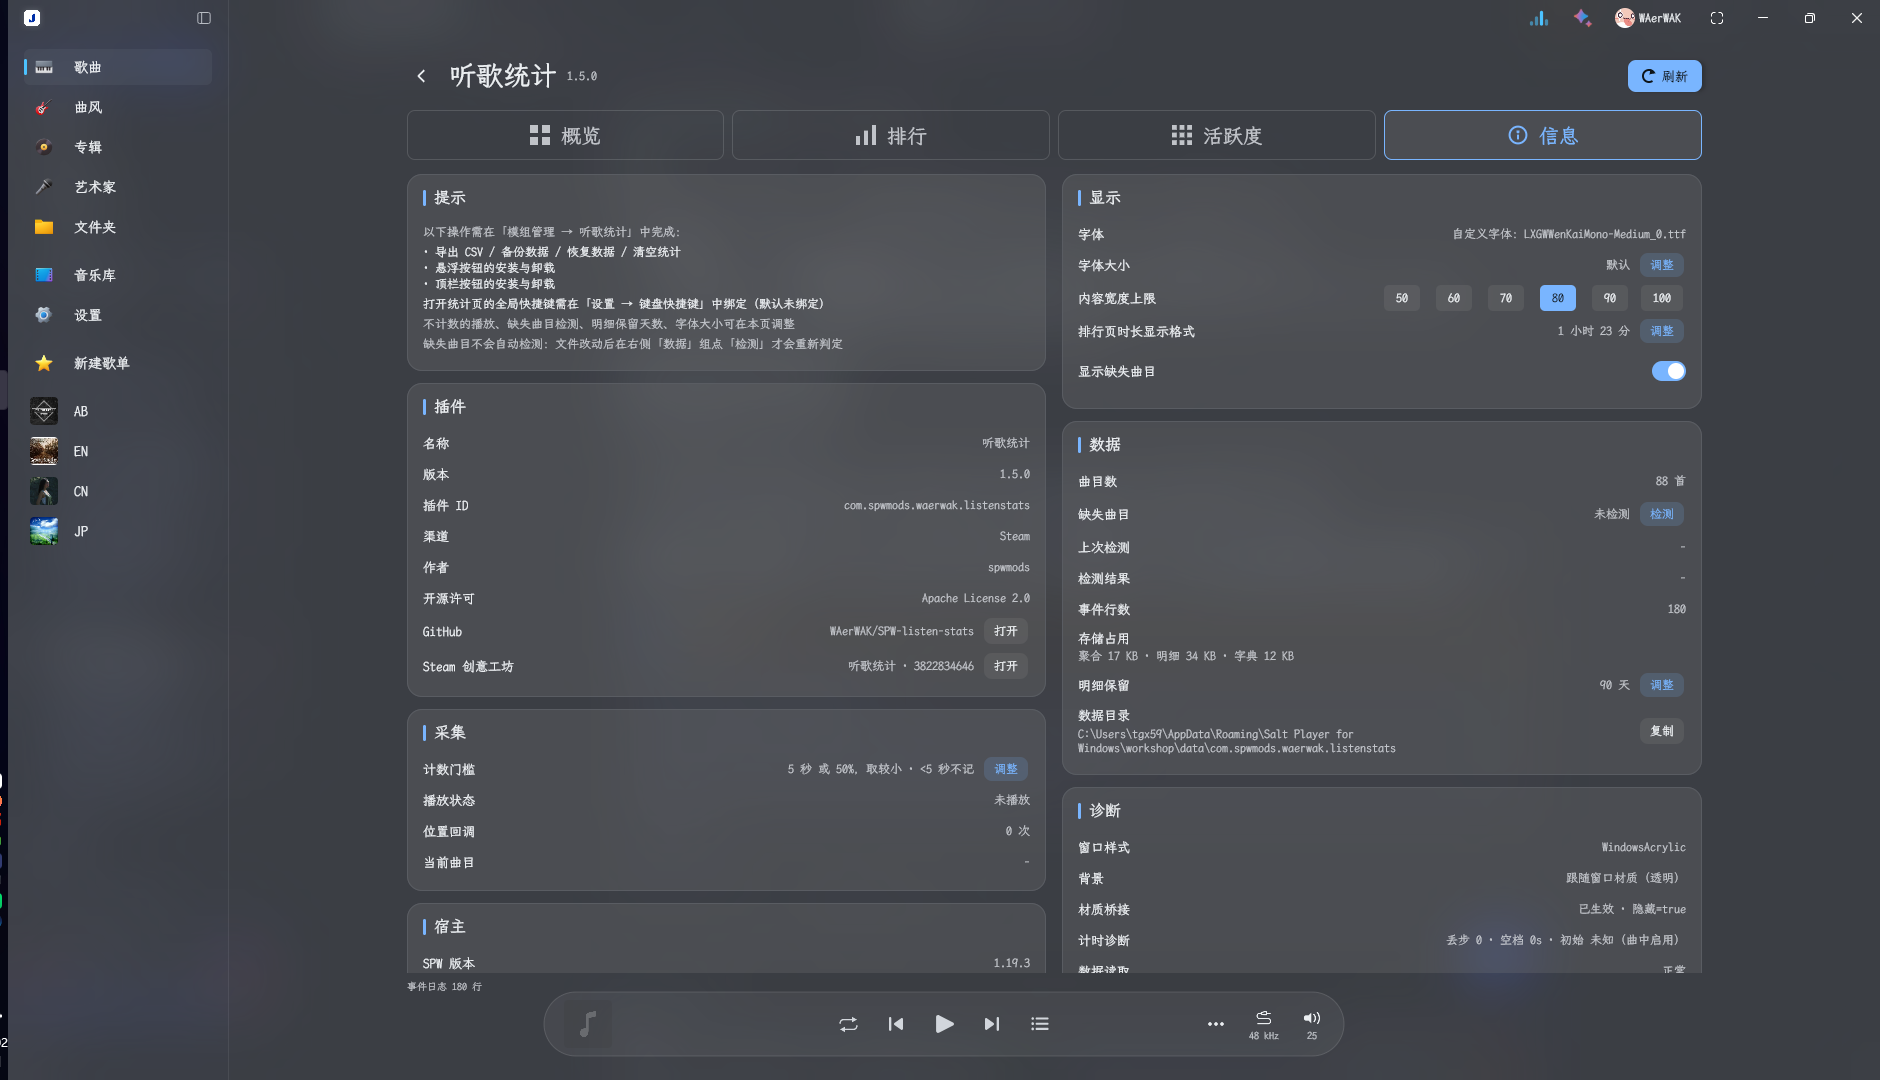
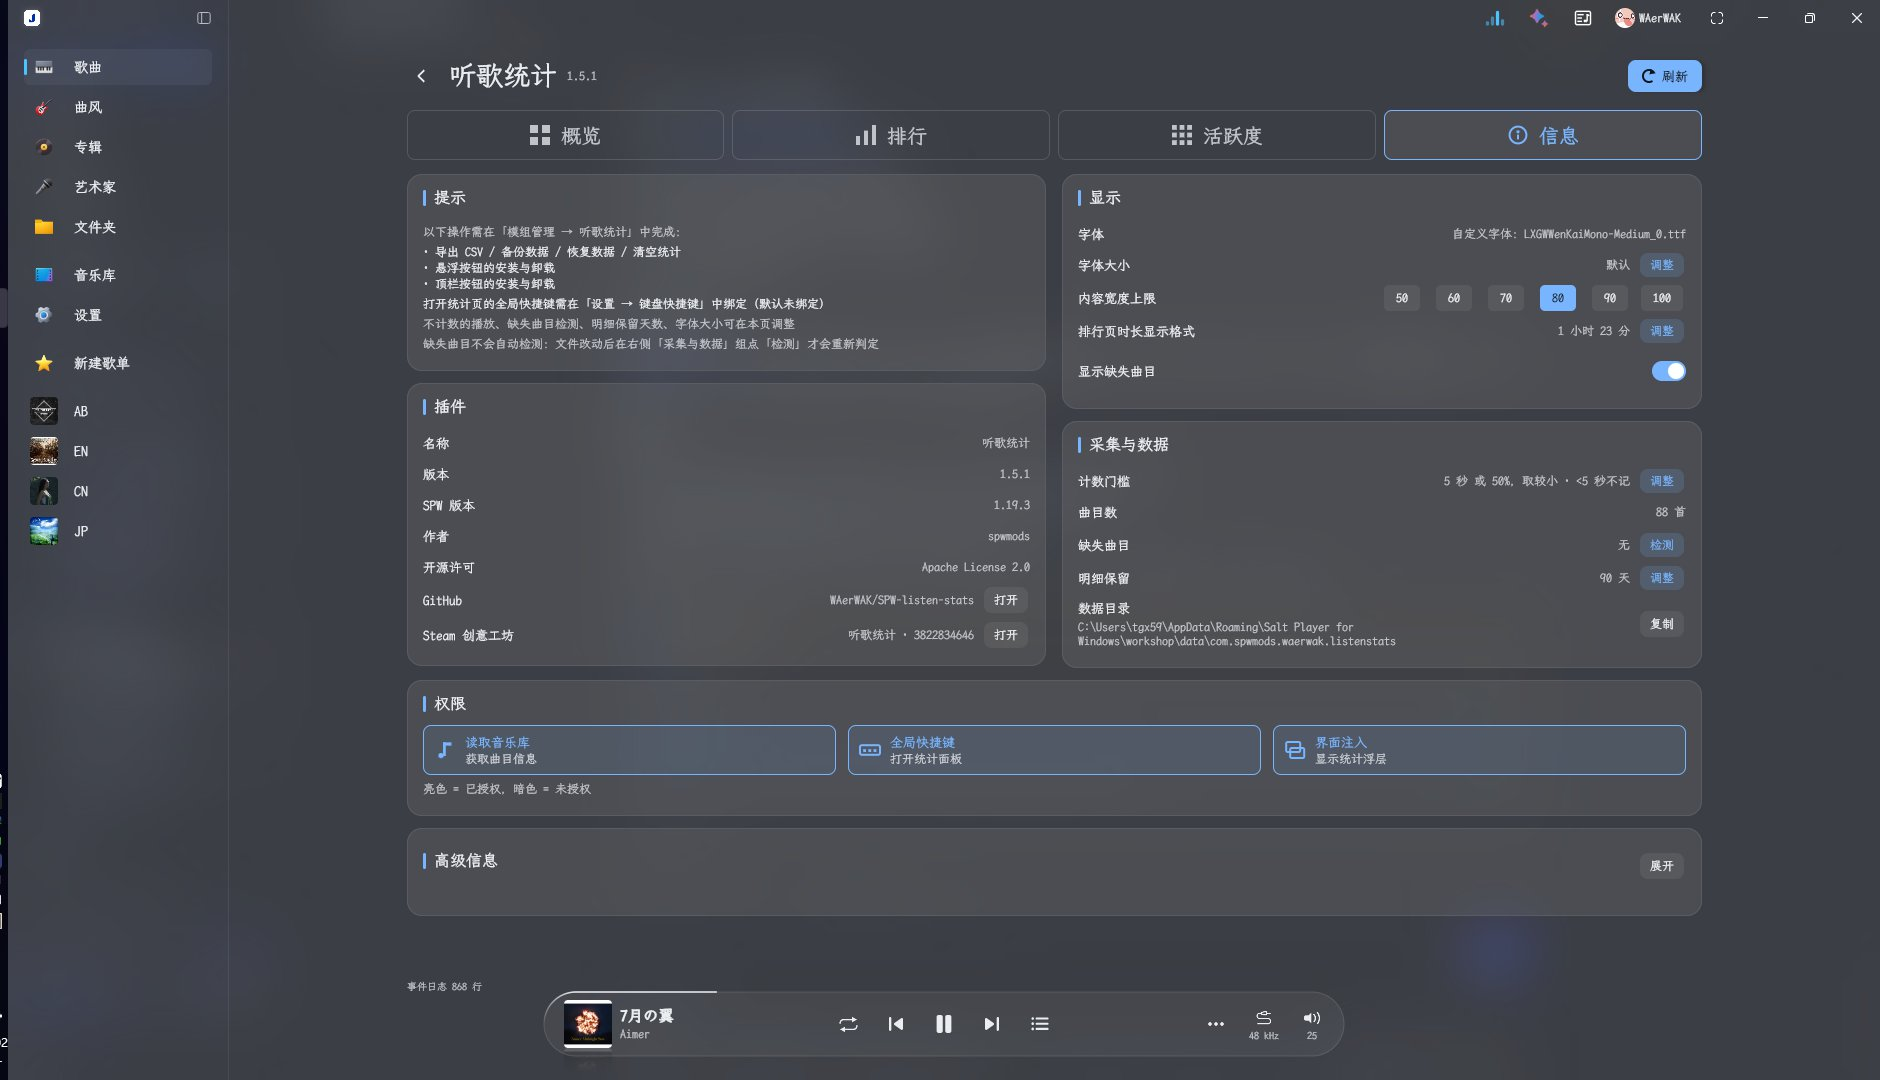
docs: 1.5.1 发布准备（CHANGELOG / README / 文档 / 信息页截图）
- CHANGELOG 新增 1.5.1 完整条目
- README：版本徽章 1.5.1；排行补充双击播放；信息页描述改为新布局
- docs/host-api-availability：修正"歌词可预取"旧结论（实为多插件短路），新增 §7 内部能力（真实倍速、单曲播放链路及结构校验）
- docs/screenshots/info.png 替换为 1.5.1 新信息页
- 构建 / runDataTests 49/49 / verifyHostApi 全部通过；1.5.1 已重新部署

diff --git a/CHANGELOG.md b/CHANGELOG.md
@@ -2,6 +2,39 @@
 
 本项目遵循 [语义化版本](https://semver.org/lang/zh-CN/)。
 
+## [1.5.1] - 2026-11-09
+
+### 新增
+
+- **双击播放**：排行「歌曲」列表里双击一首歌直接播放（单击仍是打开详情）；歌曲文件缺失、无权限或播放接口不兼容时会明确提示，不会静默失败
+- **鼠标侧键**：面板打开时按鼠标「返回」侧键收起面板，「前进」侧键把面板恢复回来，并回到上次停留的页面
+- **信息页整理**：只看得到普通用户需要的内容（提示 / 插件 / 显示 / 采集与数据 / 权限）；插件 ID、运行状态、注入状态、诊断开关等收进「高级信息」，默认折叠、按环境 / 运行状态 / 缺失检测 / 界面与注入 / 计时与诊断分区
+- **逐帧计时诊断**：高级信息里可开启（默认关），记录每一帧位置/间隔/播放态与判定原因，可一键导出 `timing-diag.txt`
+
+### 修复
+
+- **播放时长更准**
+  - 后台、最小化、主线程卡顿导致位置回调间隔很长时，不再整段丢弃时长
+  - 缓冲/解码停摆、开头加载等待不再被算成收听（之前每首开头可能多记 3–4 秒）
+  - 暂停、拖动进度条切换前后补记最后不到 1.5 秒，减少每次暂停的小额少记
+  - 播放中重载插件不再把同一首识别成两次：停用时会保存「待继续」快照，重新启用且仍是同一首就接着记
+  - 按真实倍速换算容差，4 倍以上倍速（系统媒体控制可超过 UI 上限）也能正常计入
+- **多插件同开**：装歌词插件（如 SPW-Lyrics）或多个插件时，统计不再依赖歌词回调（之前可能整首不记或记到上一首）；面板背景在 SPW-Lyrics 同时开启时仍保持窗口材质透明
+- **图表/曲目详情没有当天记录**：事件里超长的听音区间串会让旧解析器栈溢出，导致当天明细被静默跳过；已改为手写扫描解析。**已写入的历史数据不需要重播，重新打开即可显示**
+- **时钟被调整**时，事件区间与总时长保持一致，重启后统计不再变少
+
+### 改进
+
+- 计时异常（钳制/丢步/超长空档）会往 `listen-stats.log` 写一行摘要，方便反馈问题时直接定位
+- 信息页「计时诊断」显示停摆钳制次数与当前倍速
+- 更新宿主注入点失败时的诊断信息，便于宿主升级后快速排查
+
+### 兼容性
+
+- 数据格式与备份格式不变，旧数据、旧备份仍可直接使用
+- 需要 Salt Player for Windows 1.19.3；1.19.0 / 1.19.1 仍可用
+- 双击播放依赖宿主内部播放链路，已做结构校验；宿主接口变化时只会提示"不支持"，不会影响统计
+
 ## [1.5.0] - 2026-11-08
 
 ### 新增

diff --git a/docs/host-api-availability.md b/docs/host-api-availability.md
@@ -237,5 +237,19 @@ Kotlin 2.4.21 + Compose 插件 in-process 编译时，`firstOrNull { }` / `map {
 | 位置是毫秒 long | BASS 字节位置换算，无整秒取整 | 可以按"经过的时间"计时，位置只作推进证据 |
 | 暂停期间不再推送位置 | 暂停时定时任务被取消 | 暂停时长天然不会计入 |
 | 宿主官方听歌口径 = 墙钟 | `ListenSession` 用 `nanoTime` 累计 | 用户拿宿主统计对照时，倍速/暂停两侧口径一致；不一致才是我们的 bug |
-| 事件可预取歌词 | 歌词加载回调不保证只对"当前曲目"触发 | 不能用歌词回调当切歌信号，应以 `getCurrentMediaItem().id` 为权威 |
+| 歌词回调可被其它插件短路 | 宿主 `loadLyrics` 遍历扩展时，任一插件 `updateLyrics`/`onBeforeLoadLyrics` 返回非 null 就跳出循环；排后面的扩展收不到回调（1.19.3 无"预取下一首"路径） | **不能用歌词回调当切歌/会话信号**，一律以 `getCurrentMediaItem().id` 为权威（1.5.1 已改） |
 
+
+## 7. 宿主内部能力（非官方 API，已做结构校验）
+
+> 这些不在 Workshop 官方 API 里，但 1.19.3 实测可用。使用前必须校验结构、校验失败就放弃，
+> 宿主升级后由 `verifyHostApi` / 回归测试尽早发现。
+
+| 能力 | 入口 | 用途 | 校验方式 |
+|---|---|---|---|
+| 当前倍速 | `com.xuncorp.voxzen.service.PlaybackController.getPlaybackSpeed(): Float` | 计时容差/停摆判据按真实倍速换算 | 反射取 `INSTANCE` + 方法存在；失败回退 1.0/4x |
+| 单曲播放 | `PiscesMediaItem(String×6)` → `PlaybackController.addToPlay/prepare/play` | 排行榜双击播放 | Metadata data2 字段顺序 = id/title/artist/album/albumArtist/path；构造器/方法签名校验；文件存在、id 一致、主线程执行 |
+
+- 单曲播放必须按 `addToPlay → prepare → play` 三步：只 addToPlay 会更新队列但不出声。
+- 曲目查询用官方 `WorkshopApi.library.getTrackById(id)`（CompletionStage，10 秒超时）。
+- 任何校验失败都提示"当前播放器的播放接口不受支持"，不影响统计与面板其它功能。
